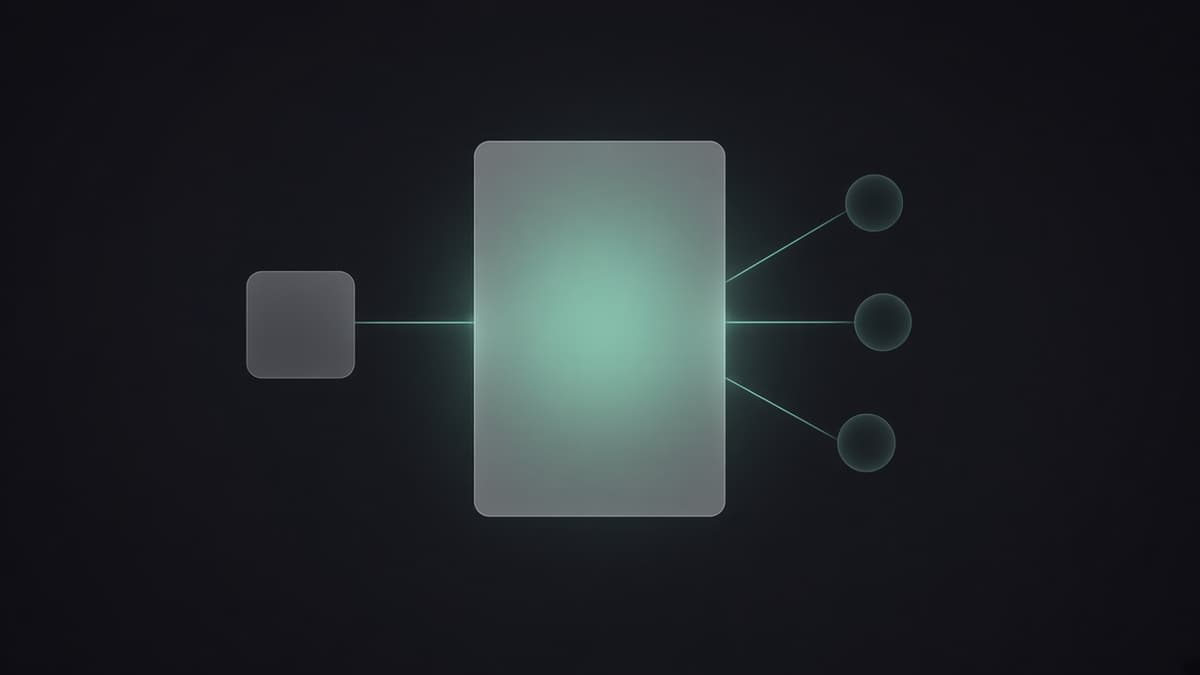
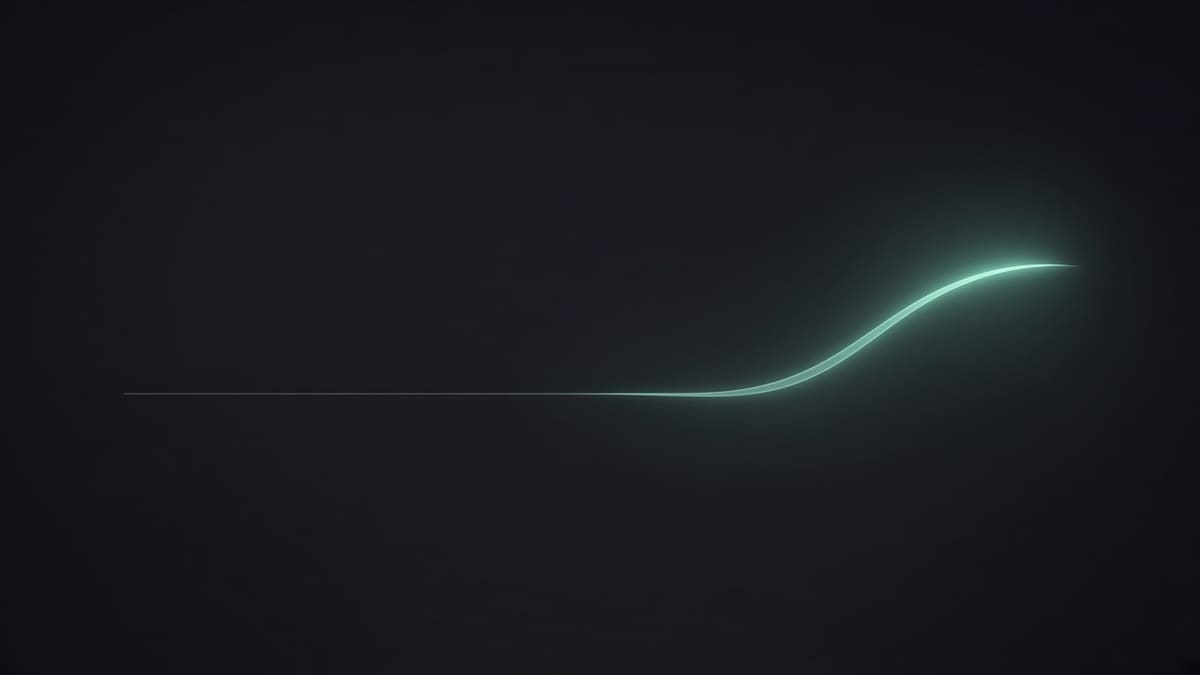
Liga o texto da consultoria e troca a capa pela subida.
A entrada explica o plano, de onde ele sai e como começar. A capa passa a ser uma linha reta que sobe a partir do meio, e a cor primária volta nos títulos, na trilha e nos valores.

diff --git a/src/features/consulting/content.ts b/src/features/consulting/content.ts
@@ -29,7 +29,7 @@ export const consultingCover = {
   social: '/imgs/consultoria/consultoria.jpg',
   width: 1200,
   height: 675,
-  alt: 'Capa: uma lâmina fosca ao centro. Um nó à esquerda e três nós à direita ligam-se a ela por fios mint.',
+  alt: 'Capa: uma linha reta na primeira metade e, a partir do meio, uma subida em mint até o fim.',
 } as const
 
 const whatsapp = {
@@ -41,13 +41,13 @@ export const consulting = {
   path: site.consulting.path,
   title: site.consulting.title,
   description: site.consulting.description,
-  subtitle: 'Um plano para quem desenvolve. Um plano para a dor de um time.',
+  subtitle: 'Um plano para o próximo passo.',
   intro:
-    'Sou Gabriel Medina, senior front-end engineer. Há mais de 16 anos trabalho com web, e há mais de 8 com React. Passei pelo Grupo Boticário, em plataformas de e-commerce, e hoje atuo no Grupo SBF como referência técnica entre times.',
+    'Sou Gabriel Medina. Eu olho o momento com você, ou com o seu time, e devolvo o próximo passo por escrito. Quem executa continua na tarefa.',
   experience: {
-    heading: 'Experiência',
-    statement: 'O que eu levo para a conversa é critério.',
-    note: 'Arquitetura, design system, a fronteira de um sistema, e o que fazer com o que a IA devolveu.',
+    heading: 'De onde sai o plano',
+    statement: 'Dezesseis anos de front-end em produto.',
+    note: 'Arquitetura, design system, e o que fazer com o que a IA devolveu. Esse é o critério que entra no plano.',
     milestones: [
       { value: '16 anos', caption: 'de desenvolvimento web' },
       { value: '8 anos', caption: 'com React, TypeScript e Next.js' },
@@ -55,14 +55,16 @@ export const consulting = {
       { value: 'SBF', caption: 'referência técnica entre times' },
     ],
   },
-  deliveryHeading: 'O que eu entrego',
+  deliveryHeading: 'Como começar',
+  deliveryLead:
+    'Dois formatos. Os dois olham o momento e terminam com um plano escrito.',
   offers: [
     {
       id: 'individual',
       slug: 'individual',
       title: 'Consultoria individual',
       summary:
-        'Um encontro de 75 minutos e um plano escrito para as próximas quatro semanas.',
+        'Para uma pessoa. Um encontro de 75 minutos e um plano para as próximas quatro semanas.',
       steps: [
         'Você conta o momento, o que trava, e manda um material real: um projeto, uma pull request, ou uma decisão que está na sua mão.',
         'No encontro a gente confirma onde você está, olha o material e escolhe um próximo passo que cabe nas próximas semanas.',
@@ -94,7 +96,7 @@ Meu momento hoje: `,
       slug: 'empresarial',
       title: 'Consultoria empresarial',
       summary:
-        'Um time chega com uma dor já dita. Eu olho com o grupo e devolvo um plano de 30 e 60 dias. Quem executa é o time.',
+        'Para um time. Uma sessão em volta de uma dor e um plano de 30 e 60 dias.',
       steps: [
         'Uma página de combinado: a dor em uma frase, quem entra na sala, dois exemplos concretos enviados com cinco dias de antecedência, e o que fica de fora.',
         'Quarenta e cinco minutos com quem patrocina, para entender a restrição e o que “melhor” significa.',

diff --git a/src/features/consulting/components/consulting-page/consulting.module.scss b/src/features/consulting/components/consulting-page/consulting.module.scss
@@ -51,7 +51,7 @@
 
 .subtitle {
   margin: 0.85rem 0 0;
-  color: var(--color-text-light);
+  color: var(--color-primary);
   font-size: 1.2rem;
   font-weight: 500;
   line-height: 1.4;
@@ -138,7 +138,7 @@
   bottom: 0;
   left: 5px;
   width: 2px;
-  background: var(--color-border);
+  background: var(--color-primary);
 }
 
 .mark::after {
@@ -154,7 +154,7 @@
 
 .markValue {
   margin: 0;
-  color: var(--color-title);
+  color: var(--color-primary);
   font-size: 2.15rem;
   font-weight: 600;
   letter-spacing: -0.03em;
@@ -183,6 +183,7 @@
   padding: 1.6rem;
   background: var(--color-background-interactive);
   border: 1px solid var(--color-border);
+  border-left: 3px solid var(--color-primary);
   border-radius: 8px;
 }
 
@@ -191,7 +192,7 @@
   width: 5.5rem;
   height: 5.5rem;
   place-items: center;
-  border: 1px solid var(--color-border);
+  border: 1px solid var(--color-primary);
   border-radius: 50%;
   background: var(--color-background);
   color: var(--color-primary);
@@ -209,7 +210,7 @@
 
 .cardTitle {
   margin: 0;
-  color: var(--color-title);
+  color: var(--color-primary);
   font-size: 1.7rem;
   font-weight: 600;
   line-height: 1.2;
@@ -308,7 +309,7 @@
 
 .price dd {
   margin: 0;
-  color: var(--color-title);
+  color: var(--color-primary);
   font-size: 1.45rem;
   font-weight: 600;
   letter-spacing: -0.02em;
@@ -426,7 +427,7 @@
     right: 0;
     left: 0;
     height: 2px;
-    background: var(--color-border);
+    background: var(--color-primary);
   }
 
   .mark {

diff --git a/src/features/consulting/components/consulting-page/consulting-page.tsx b/src/features/consulting/components/consulting-page/consulting-page.tsx
@@ -60,6 +60,7 @@ export function ConsultingPage() {
           <h2 id="entrega" className={styles.sectionTitle}>
             {consulting.deliveryHeading}
           </h2>
+          <p className={styles.statementNote}>{consulting.deliveryLead}</p>
           <div className={styles.cards}>
             {consulting.offers.map((offer) => (
               <OfferCard key={offer.id} offer={offer} />

diff --git a/specs/005-monetization.md b/specs/005-monetization.md
@@ -75,7 +75,7 @@ Sem widget, popup ou script de agenda. O link é uma âncora para o WhatsApp. A 
 
 O texto e os preços vivem em `src/features/consulting/content.ts`. A URL do WhatsApp é função pura ao lado do componente. Cada rota é fina: metadata, JSON-LD, page view, render.
 
-**`/consultoria`** é a entrada, mais larga que o miolo dos posts. Um `<h1>`. A capa fica junto ao cabeçalho (acima no celular, ao lado a partir de 768px) e segue a família de `004`: fundo `#1a1d24`, ~1200×675, WebP no corpo e JPEG leve no Open Graph. A metáfora é o plano escrito: uma lâmina ao centro, um nó à esquerda, três nós à direita. A experiência é uma trilha (16 anos, 8 com React, Boticário, SBF), não uma grade de cartões. Os dois formatos são faixas de 100% da largura, uma abaixo da outra: ícone de uma pessoa ou de três, o texto, e o botão “Quero saber mais”. O preço não aparece nessa entrada. Não há seção “tamanho do trabalho”.
+**`/consultoria`** é a entrada, mais larga que o miolo dos posts. Um `<h1>`. A capa fica junto ao cabeçalho (acima no celular, ao lado a partir de 768px) e segue a família de `004`: fundo `#1a1d24`, ~1200×675, WebP no corpo e JPEG leve no Open Graph. A metáfora da capa é a evolução: uma linha reta na primeira metade e, a partir do meio, uma subida até o fim. A experiência é uma trilha (16 anos, 8 com React, Boticário, SBF), não uma grade de cartões. O texto segue uma linha só: o que a consultoria devolve, de onde sai o plano, e como começar. Os dois formatos são faixas de 100% da largura, uma abaixo da outra: ícone de uma pessoa ou de três, o texto, e o botão “Quero saber mais”. O preço não aparece nessa entrada. Não há seção “tamanho do trabalho”.
 
 **`/consultoria/individual`** e **`/consultoria/empresarial`** carregam o passo a passo, os preços e o botão de WhatsApp. O botão aparece no alto e de novo depois dos valores. Os slugs antigos redirecionam: `/consultoria/leitura-de-carreira` e `/consultoria/para-um-time`. Slug desconhecido chama `notFound()`.
 
